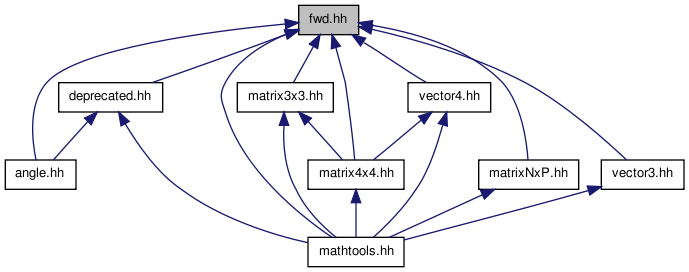
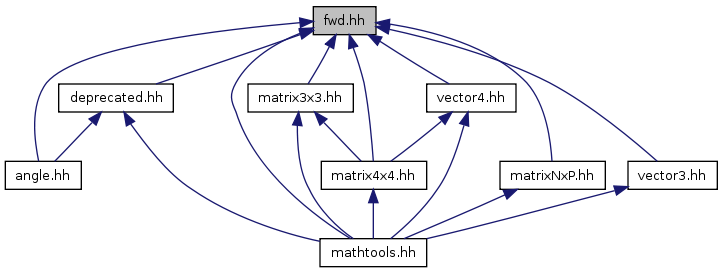
Update HEAD Doxygen documentation. Source commit id: 5735a094c6b2331e3345d8ac94a43b2a2695e26a

diff --git a/doxygen/HEAD/mathtools_8hh.html b/doxygen/HEAD/mathtools_8hh.html
@@ -41,7 +41,7 @@ Include dependency graph for mathtools.hh:<!-- endSectionHeader --></div>
 <!-- startSectionSummary --><!-- endSectionSummary --><!-- startSectionContent --><div class="dyncontent">
 <div class="center"><img src="mathtools_8hh__incl.png" border="0" usemap="#mathtools_8hh" alt=""/></div>
 <map name="mathtools_8hh" id="mathtools_8hh">
-<area shape="rect" href="fwd_8hh.html" title="jrl/mathtools/fwd.hh" alt="" coords="409,237,543,267"/><area shape="rect" href="deprecated_8hh.html" title="jrl/mathtools/deprecated.hh" alt="" coords="179,83,357,112"/><area shape="rect" href="vector3_8hh.html" title="jrl/mathtools/vector3.hh" alt="" coords="513,160,671,189"/><area shape="rect" href="vector4_8hh.html" title="jrl/mathtools/vector4.hh" alt="" coords="695,160,852,189"/><area shape="rect" href="vector_n_8hh.html" title="jrl/mathtools/vectorN.hh" alt="" coords="1865,160,2025,189"/><area shape="rect" href="matrix3x3_8hh.html" title="jrl/mathtools/matrix3x3.hh" alt="" coords="977,160,1148,189"/><area shape="rect" href="matrix4x4_8hh.html" title="jrl/mathtools/matrix4x4.hh" alt="" coords="688,83,859,112"/><area shape="rect" href="matrix_nx_p_8hh.html" title="jrl/mathtools/matrixNxP.hh" alt="" coords="1328,83,1504,112"/><area shape="rect" href="io_8hh.html" title="jrl/mathtools/io.hh" alt="" coords="883,83,1005,112"/></map>
+<area shape="rect" href="fwd_8hh.html" title="jrl/mathtools/fwd.hh" alt="" coords="433,239,580,265"/><area shape="rect" href="deprecated_8hh.html" title="jrl/mathtools/deprecated.hh" alt="" coords="192,84,389,111"/><area shape="rect" href="vector3_8hh.html" title="jrl/mathtools/vector3.hh" alt="" coords="544,161,717,188"/><area shape="rect" href="vector4_8hh.html" title="jrl/mathtools/vector4.hh" alt="" coords="741,161,915,188"/><area shape="rect" href="vector_n_8hh.html" title="jrl/mathtools/vectorN.hh" alt="" coords="2008,161,2184,188"/><area shape="rect" href="matrix3x3_8hh.html" title="jrl/mathtools/matrix3x3.hh" alt="" coords="1040,161,1229,188"/><area shape="rect" href="matrix4x4_8hh.html" title="jrl/mathtools/matrix4x4.hh" alt="" coords="733,84,923,111"/><area shape="rect" href="matrix_nx_p_8hh.html" title="jrl/mathtools/matrixNxP.hh" alt="" coords="1424,84,1613,111"/><area shape="rect" href="io_8hh.html" title="jrl/mathtools/io.hh" alt="" coords="947,84,1083,111"/></map>
 <!-- endSectionContent --></div>
 <table class="memberdecls">
 </table>

diff --git a/doxygen/HEAD/fwd_8hh.html b/doxygen/HEAD/fwd_8hh.html
@@ -34,7 +34,7 @@ This graph shows which files directly or indirectly include this file:<!-- endSe
 <!-- startSectionSummary --><!-- endSectionSummary --><!-- startSectionContent --><div class="dyncontent">
 <div class="center"><img src="fwd_8hh__dep__incl.png" border="0" usemap="#fwd_8hhdep" alt=""/></div>
 <map name="fwd_8hhdep" id="fwd_8hhdep">
-<area shape="rect" href="angle_8hh.html" title="angle.hh" alt="" coords="5,160,75,189"/><area shape="rect" href="deprecated_8hh.html" title="deprecated.hh" alt="" coords="59,83,163,112"/><area shape="rect" href="mathtools_8hh.html" title="mathtools.hh" alt="" coords="308,237,404,267"/><area shape="rect" href="matrix3x3_8hh.html" title="matrix3x3.hh" alt="" coords="237,83,333,112"/><area shape="rect" href="matrix4x4_8hh.html" title="matrix4x4.hh" alt="" coords="308,160,404,189"/><area shape="rect" href="matrix_nx_p_8hh.html" title="matrixNxP.hh" alt="" coords="479,160,577,189"/><area shape="rect" href="vector3_8hh.html" title="vector3.hh" alt="" coords="601,160,684,189"/><area shape="rect" href="vector4_8hh.html" title="vector4.hh" alt="" coords="408,83,491,112"/></map>
+<area shape="rect" href="angle_8hh.html" title="angle.hh" alt="" coords="5,161,80,188"/><area shape="rect" href="deprecated_8hh.html" title="deprecated.hh" alt="" coords="59,84,173,111"/><area shape="rect" href="mathtools_8hh.html" title="mathtools.hh" alt="" coords="320,239,427,265"/><area shape="rect" href="matrix3x3_8hh.html" title="matrix3x3.hh" alt="" coords="248,84,352,111"/><area shape="rect" href="matrix4x4_8hh.html" title="matrix4x4.hh" alt="" coords="321,161,425,188"/><area shape="rect" href="matrix_nx_p_8hh.html" title="matrixNxP.hh" alt="" coords="500,161,604,188"/><area shape="rect" href="vector3_8hh.html" title="vector3.hh" alt="" coords="628,161,716,188"/><area shape="rect" href="vector4_8hh.html" title="vector4.hh" alt="" coords="427,84,515,111"/></map>
 <!-- endSectionContent --></div>
 <table class="memberdecls">
 <tr><td colspan="2"><h2><a name="namespaces"></a>

diff --git a/doxygen/HEAD/matrix4x4_8hh.html b/doxygen/HEAD/matrix4x4_8hh.html
@@ -39,14 +39,14 @@ Include dependency graph for matrix4x4.hh:<!-- endSectionHeader --></div>
 <!-- startSectionSummary --><!-- endSectionSummary --><!-- startSectionContent --><div class="dyncontent">
 <div class="center"><img src="matrix4x4_8hh__incl.png" border="0" usemap="#matrix4x4_8hh" alt=""/></div>
 <map name="matrix4x4_8hh" id="matrix4x4_8hh">
-<area shape="rect" href="fwd_8hh.html" title="jrl/mathtools/fwd.hh" alt="" coords="280,160,413,189"/><area shape="rect" href="vector4_8hh.html" title="jrl/mathtools/vector4.hh" alt="" coords="341,83,499,112"/><area shape="rect" href="matrix3x3_8hh.html" title="jrl/mathtools/matrix3x3.hh" alt="" coords="96,83,267,112"/></map>
+<area shape="rect" href="fwd_8hh.html" title="jrl/mathtools/fwd.hh" alt="" coords="296,162,443,188"/><area shape="rect" href="vector4_8hh.html" title="jrl/mathtools/vector4.hh" alt="" coords="361,84,535,111"/><area shape="rect" href="matrix3x3_8hh.html" title="jrl/mathtools/matrix3x3.hh" alt="" coords="97,84,287,111"/></map>
 <!-- endSectionContent --></div>
 <!-- startSectionHeader --><div class="dynheader">
 This graph shows which files directly or indirectly include this file:<!-- endSectionHeader --></div>
 <!-- startSectionSummary --><!-- endSectionSummary --><!-- startSectionContent --><div class="dyncontent">
 <div class="center"><img src="matrix4x4_8hh__dep__incl.png" border="0" usemap="#matrix4x4_8hhdep" alt=""/></div>
 <map name="matrix4x4_8hhdep" id="matrix4x4_8hhdep">
-<area shape="rect" href="mathtools_8hh.html" title="mathtools.hh" alt="" coords="5,83,101,112"/></map>
+<area shape="rect" href="mathtools_8hh.html" title="mathtools.hh" alt="" coords="5,84,112,110"/></map>
 <!-- endSectionContent --></div>
 <table class="memberdecls">
 <tr><td colspan="2"><h2><a name="nested-classes"></a>

diff --git a/doxygen/HEAD/matrix_nx_p_8hh.html b/doxygen/HEAD/matrix_nx_p_8hh.html
@@ -41,14 +41,14 @@ Include dependency graph for matrixNxP.hh:<!-- endSectionHeader --></div>
 <!-- startSectionSummary --><!-- endSectionSummary --><!-- startSectionContent --><div class="dyncontent">
 <div class="center"><img src="matrix_nx_p_8hh__incl.png" border="0" usemap="#matrix_nx_p_8hh" alt=""/></div>
 <map name="matrix_nx_p_8hh" id="matrix_nx_p_8hh">
-<area shape="rect" href="fwd_8hh.html" title="jrl/mathtools/fwd.hh" alt="" coords="699,83,832,112"/><area shape="rect" href="vector_n_8hh.html" title="jrl/mathtools/vectorN.hh" alt="" coords="856,83,1016,112"/></map>
+<area shape="rect" href="fwd_8hh.html" title="jrl/mathtools/fwd.hh" alt="" coords="760,84,907,111"/><area shape="rect" href="vector_n_8hh.html" title="jrl/mathtools/vectorN.hh" alt="" coords="931,84,1107,111"/></map>
 <!-- endSectionContent --></div>
 <!-- startSectionHeader --><div class="dynheader">
 This graph shows which files directly or indirectly include this file:<!-- endSectionHeader --></div>
 <!-- startSectionSummary --><!-- endSectionSummary --><!-- startSectionContent --><div class="dyncontent">
 <div class="center"><img src="matrix_nx_p_8hh__dep__incl.png" border="0" usemap="#matrix_nx_p_8hhdep" alt=""/></div>
 <map name="matrix_nx_p_8hhdep" id="matrix_nx_p_8hhdep">
-<area shape="rect" href="mathtools_8hh.html" title="mathtools.hh" alt="" coords="7,83,103,112"/></map>
+<area shape="rect" href="mathtools_8hh.html" title="mathtools.hh" alt="" coords="5,84,112,110"/></map>
 <!-- endSectionContent --></div>
 <table class="memberdecls">
 <tr><td colspan="2"><h2><a name="namespaces"></a>

diff --git a/doxygen/HEAD/matrix3x3_8hh.html b/doxygen/HEAD/matrix3x3_8hh.html
@@ -38,14 +38,14 @@ Include dependency graph for matrix3x3.hh:<!-- endSectionHeader --></div>
 <!-- startSectionSummary --><!-- endSectionSummary --><!-- startSectionContent --><div class="dyncontent">
 <div class="center"><img src="matrix3x3_8hh__incl.png" border="0" usemap="#matrix3x3_8hh" alt=""/></div>
 <map name="matrix3x3_8hh" id="matrix3x3_8hh">
-<area shape="rect" href="fwd_8hh.html" title="jrl/mathtools/fwd.hh" alt="" coords="107,83,240,112"/></map>
+<area shape="rect" href="fwd_8hh.html" title="jrl/mathtools/fwd.hh" alt="" coords="112,84,259,110"/></map>
 <!-- endSectionContent --></div>
 <!-- startSectionHeader --><div class="dynheader">
 This graph shows which files directly or indirectly include this file:<!-- endSectionHeader --></div>
 <!-- startSectionSummary --><!-- endSectionSummary --><!-- startSectionContent --><div class="dyncontent">
 <div class="center"><img src="matrix3x3_8hh__dep__incl.png" border="0" usemap="#matrix3x3_8hhdep" alt=""/></div>
 <map name="matrix3x3_8hhdep" id="matrix3x3_8hhdep">
-<area shape="rect" href="matrix4x4_8hh.html" title="matrix4x4.hh" alt="" coords="5,83,101,112"/><area shape="rect" href="mathtools_8hh.html" title="mathtools.hh" alt="" coords="48,160,144,189"/></map>
+<area shape="rect" href="matrix4x4_8hh.html" title="matrix4x4.hh" alt="" coords="5,84,109,111"/><area shape="rect" href="mathtools_8hh.html" title="mathtools.hh" alt="" coords="48,162,155,188"/></map>
 <!-- endSectionContent --></div>
 <table class="memberdecls">
 <tr><td colspan="2"><h2><a name="nested-classes"></a>

diff --git a/doxygen/HEAD/deprecated_8hh.html b/doxygen/HEAD/deprecated_8hh.html
@@ -35,14 +35,14 @@ Include dependency graph for deprecated.hh:<!-- endSectionHeader --></div>
 <!-- startSectionSummary --><!-- endSectionSummary --><!-- startSectionContent --><div class="dyncontent">
 <div class="center"><img src="deprecated_8hh__incl.png" border="0" usemap="#deprecated_8hh" alt=""/></div>
 <map name="deprecated_8hh" id="deprecated_8hh">
-<area shape="rect" href="fwd_8hh.html" title="jrl/mathtools/fwd.hh" alt="" coords="5,83,139,112"/></map>
+<area shape="rect" href="fwd_8hh.html" title="jrl/mathtools/fwd.hh" alt="" coords="5,84,152,110"/></map>
 <!-- endSectionContent --></div>
 <!-- startSectionHeader --><div class="dynheader">
 This graph shows which files directly or indirectly include this file:<!-- endSectionHeader --></div>
 <!-- startSectionSummary --><!-- endSectionSummary --><!-- startSectionContent --><div class="dyncontent">
 <div class="center"><img src="deprecated_8hh__dep__incl.png" border="0" usemap="#deprecated_8hhdep" alt=""/></div>
 <map name="deprecated_8hhdep" id="deprecated_8hhdep">
-<area shape="rect" href="angle_8hh.html" title="angle.hh" alt="" coords="5,83,75,112"/><area shape="rect" href="mathtools_8hh.html" title="mathtools.hh" alt="" coords="99,83,195,112"/></map>
+<area shape="rect" href="angle_8hh.html" title="angle.hh" alt="" coords="5,84,80,110"/><area shape="rect" href="mathtools_8hh.html" title="mathtools.hh" alt="" coords="104,84,211,110"/></map>
 <!-- endSectionContent --></div>
 <table class="memberdecls">
 <tr><td colspan="2"><h2><a name="namespaces"></a>

diff --git a/doxygen/HEAD/vector4_8hh.html b/doxygen/HEAD/vector4_8hh.html
@@ -39,14 +39,14 @@ Include dependency graph for vector4.hh:<!-- endSectionHeader --></div>
 <!-- startSectionSummary --><!-- endSectionSummary --><!-- startSectionContent --><div class="dyncontent">
 <div class="center"><img src="vector4_8hh__incl.png" border="0" usemap="#vector4_8hh" alt=""/></div>
 <map name="vector4_8hh" id="vector4_8hh">
-<area shape="rect" href="fwd_8hh.html" title="jrl/mathtools/fwd.hh" alt="" coords="283,83,416,112"/></map>
+<area shape="rect" href="fwd_8hh.html" title="jrl/mathtools/fwd.hh" alt="" coords="299,84,445,110"/></map>
 <!-- endSectionContent --></div>
 <!-- startSectionHeader --><div class="dynheader">
 This graph shows which files directly or indirectly include this file:<!-- endSectionHeader --></div>
 <!-- startSectionSummary --><!-- endSectionSummary --><!-- startSectionContent --><div class="dyncontent">
 <div class="center"><img src="vector4_8hh__dep__incl.png" border="0" usemap="#vector4_8hhdep" alt=""/></div>
 <map name="vector4_8hhdep" id="vector4_8hhdep">
-<area shape="rect" href="matrix4x4_8hh.html" title="matrix4x4.hh" alt="" coords="5,83,101,112"/><area shape="rect" href="mathtools_8hh.html" title="mathtools.hh" alt="" coords="48,160,144,189"/></map>
+<area shape="rect" href="matrix4x4_8hh.html" title="matrix4x4.hh" alt="" coords="5,84,109,111"/><area shape="rect" href="mathtools_8hh.html" title="mathtools.hh" alt="" coords="48,162,155,188"/></map>
 <!-- endSectionContent --></div>
 <table class="memberdecls">
 <tr><td colspan="2"><h2><a name="nested-classes"></a>

diff --git a/doxygen/HEAD/vector3_8hh.html b/doxygen/HEAD/vector3_8hh.html
@@ -39,14 +39,14 @@ Include dependency graph for vector3.hh:<!-- endSectionHeader --></div>
 <!-- startSectionSummary --><!-- endSectionSummary --><!-- startSectionContent --><div class="dyncontent">
 <div class="center"><img src="vector3_8hh__incl.png" border="0" usemap="#vector3_8hh" alt=""/></div>
 <map name="vector3_8hh" id="vector3_8hh">
-<area shape="rect" href="fwd_8hh.html" title="jrl/mathtools/fwd.hh" alt="" coords="283,83,416,112"/></map>
+<area shape="rect" href="fwd_8hh.html" title="jrl/mathtools/fwd.hh" alt="" coords="299,84,445,110"/></map>
 <!-- endSectionContent --></div>
 <!-- startSectionHeader --><div class="dynheader">
 This graph shows which files directly or indirectly include this file:<!-- endSectionHeader --></div>
 <!-- startSectionSummary --><!-- endSectionSummary --><!-- startSectionContent --><div class="dyncontent">
 <div class="center"><img src="vector3_8hh__dep__incl.png" border="0" usemap="#vector3_8hhdep" alt=""/></div>
 <map name="vector3_8hhdep" id="vector3_8hhdep">
-<area shape="rect" href="mathtools_8hh.html" title="mathtools.hh" alt="" coords="5,83,101,112"/></map>
+<area shape="rect" href="mathtools_8hh.html" title="mathtools.hh" alt="" coords="5,84,112,110"/></map>
 <!-- endSectionContent --></div>
 <table class="memberdecls">
 <tr><td colspan="2"><h2><a name="nested-classes"></a>

diff --git a/doxygen/HEAD/angle_8hh.html b/doxygen/HEAD/angle_8hh.html
@@ -40,7 +40,7 @@ Include dependency graph for angle.hh:<!-- endSectionHeader --></div>
 <!-- startSectionSummary --><!-- endSectionSummary --><!-- startSectionContent --><div class="dyncontent">
 <div class="center"><img src="angle_8hh__incl.png" border="0" usemap="#angle_8hh" alt=""/></div>
 <map name="angle_8hh" id="angle_8hh">
-<area shape="rect" href="fwd_8hh.html" title="jrl/mathtools/fwd.hh" alt="" coords="356,160,489,189"/><area shape="rect" href="constants_8hh.html" title="jrl/mathtools/constants.hh" alt="" coords="152,83,323,112"/><area shape="rect" href="deprecated_8hh.html" title="jrl/mathtools/deprecated.hh" alt="" coords="397,83,576,112"/></map>
+<area shape="rect" href="fwd_8hh.html" title="jrl/mathtools/fwd.hh" alt="" coords="376,162,523,188"/><area shape="rect" href="constants_8hh.html" title="jrl/mathtools/constants.hh" alt="" coords="157,84,344,111"/><area shape="rect" href="deprecated_8hh.html" title="jrl/mathtools/deprecated.hh" alt="" coords="419,84,616,111"/></map>
 <!-- endSectionContent --></div>
 <table class="memberdecls">
 <tr><td colspan="2"><h2><a name="nested-classes"></a>

diff --git a/doxygen/HEAD/vector_n_8hh.html b/doxygen/HEAD/vector_n_8hh.html
@@ -43,7 +43,7 @@ This graph shows which files directly or indirectly include this file:<!-- endSe
 <!-- startSectionSummary --><!-- endSectionSummary --><!-- startSectionContent --><div class="dyncontent">
 <div class="center"><img src="vector_n_8hh__dep__incl.png" border="0" usemap="#vector_n_8hhdep" alt=""/></div>
 <map name="vector_n_8hhdep" id="vector_n_8hhdep">
-<area shape="rect" href="matrix_nx_p_8hh.html" title="matrixNxP.hh" alt="" coords="5,83,104,112"/><area shape="rect" href="mathtools_8hh.html" title="mathtools.hh" alt="" coords="49,160,145,189"/></map>
+<area shape="rect" href="matrix_nx_p_8hh.html" title="matrixNxP.hh" alt="" coords="5,84,109,111"/><area shape="rect" href="mathtools_8hh.html" title="mathtools.hh" alt="" coords="48,162,155,188"/></map>
 <!-- endSectionContent --></div>
 <table class="memberdecls">
 <tr><td colspan="2"><h2><a name="define-members"></a>

diff --git a/doxygen/HEAD/constants_8hh.html b/doxygen/HEAD/constants_8hh.html
@@ -39,7 +39,7 @@ This graph shows which files directly or indirectly include this file:<!-- endSe
 <!-- startSectionSummary --><!-- endSectionSummary --><!-- startSectionContent --><div class="dyncontent">
 <div class="center"><img src="constants_8hh__dep__incl.png" border="0" usemap="#constants_8hhdep" alt=""/></div>
 <map name="constants_8hhdep" id="constants_8hhdep">
-<area shape="rect" href="angle_8hh.html" title="angle.hh" alt="" coords="19,83,88,112"/></map>
+<area shape="rect" href="angle_8hh.html" title="angle.hh" alt="" coords="20,84,95,110"/></map>
 <!-- endSectionContent --></div>
 <table class="memberdecls">
 <tr><td colspan="2"><h2><a name="define-members"></a>

diff --git a/doxygen/HEAD/io_8hh.html b/doxygen/HEAD/io_8hh.html
@@ -39,7 +39,7 @@ This graph shows which files directly or indirectly include this file:<!-- endSe
 <!-- startSectionSummary --><!-- endSectionSummary --><!-- startSectionContent --><div class="dyncontent">
 <div class="center"><img src="io_8hh__dep__incl.png" border="0" usemap="#io_8hhdep" alt=""/></div>
 <map name="io_8hhdep" id="io_8hhdep">
-<area shape="rect" href="mathtools_8hh.html" title="mathtools.hh" alt="" coords="5,83,101,112"/></map>
+<area shape="rect" href="mathtools_8hh.html" title="mathtools.hh" alt="" coords="5,84,112,110"/></map>
 <!-- endSectionContent --></div>
 <table class="memberdecls">
 <tr><td colspan="2"><h2><a name="namespaces"></a>
